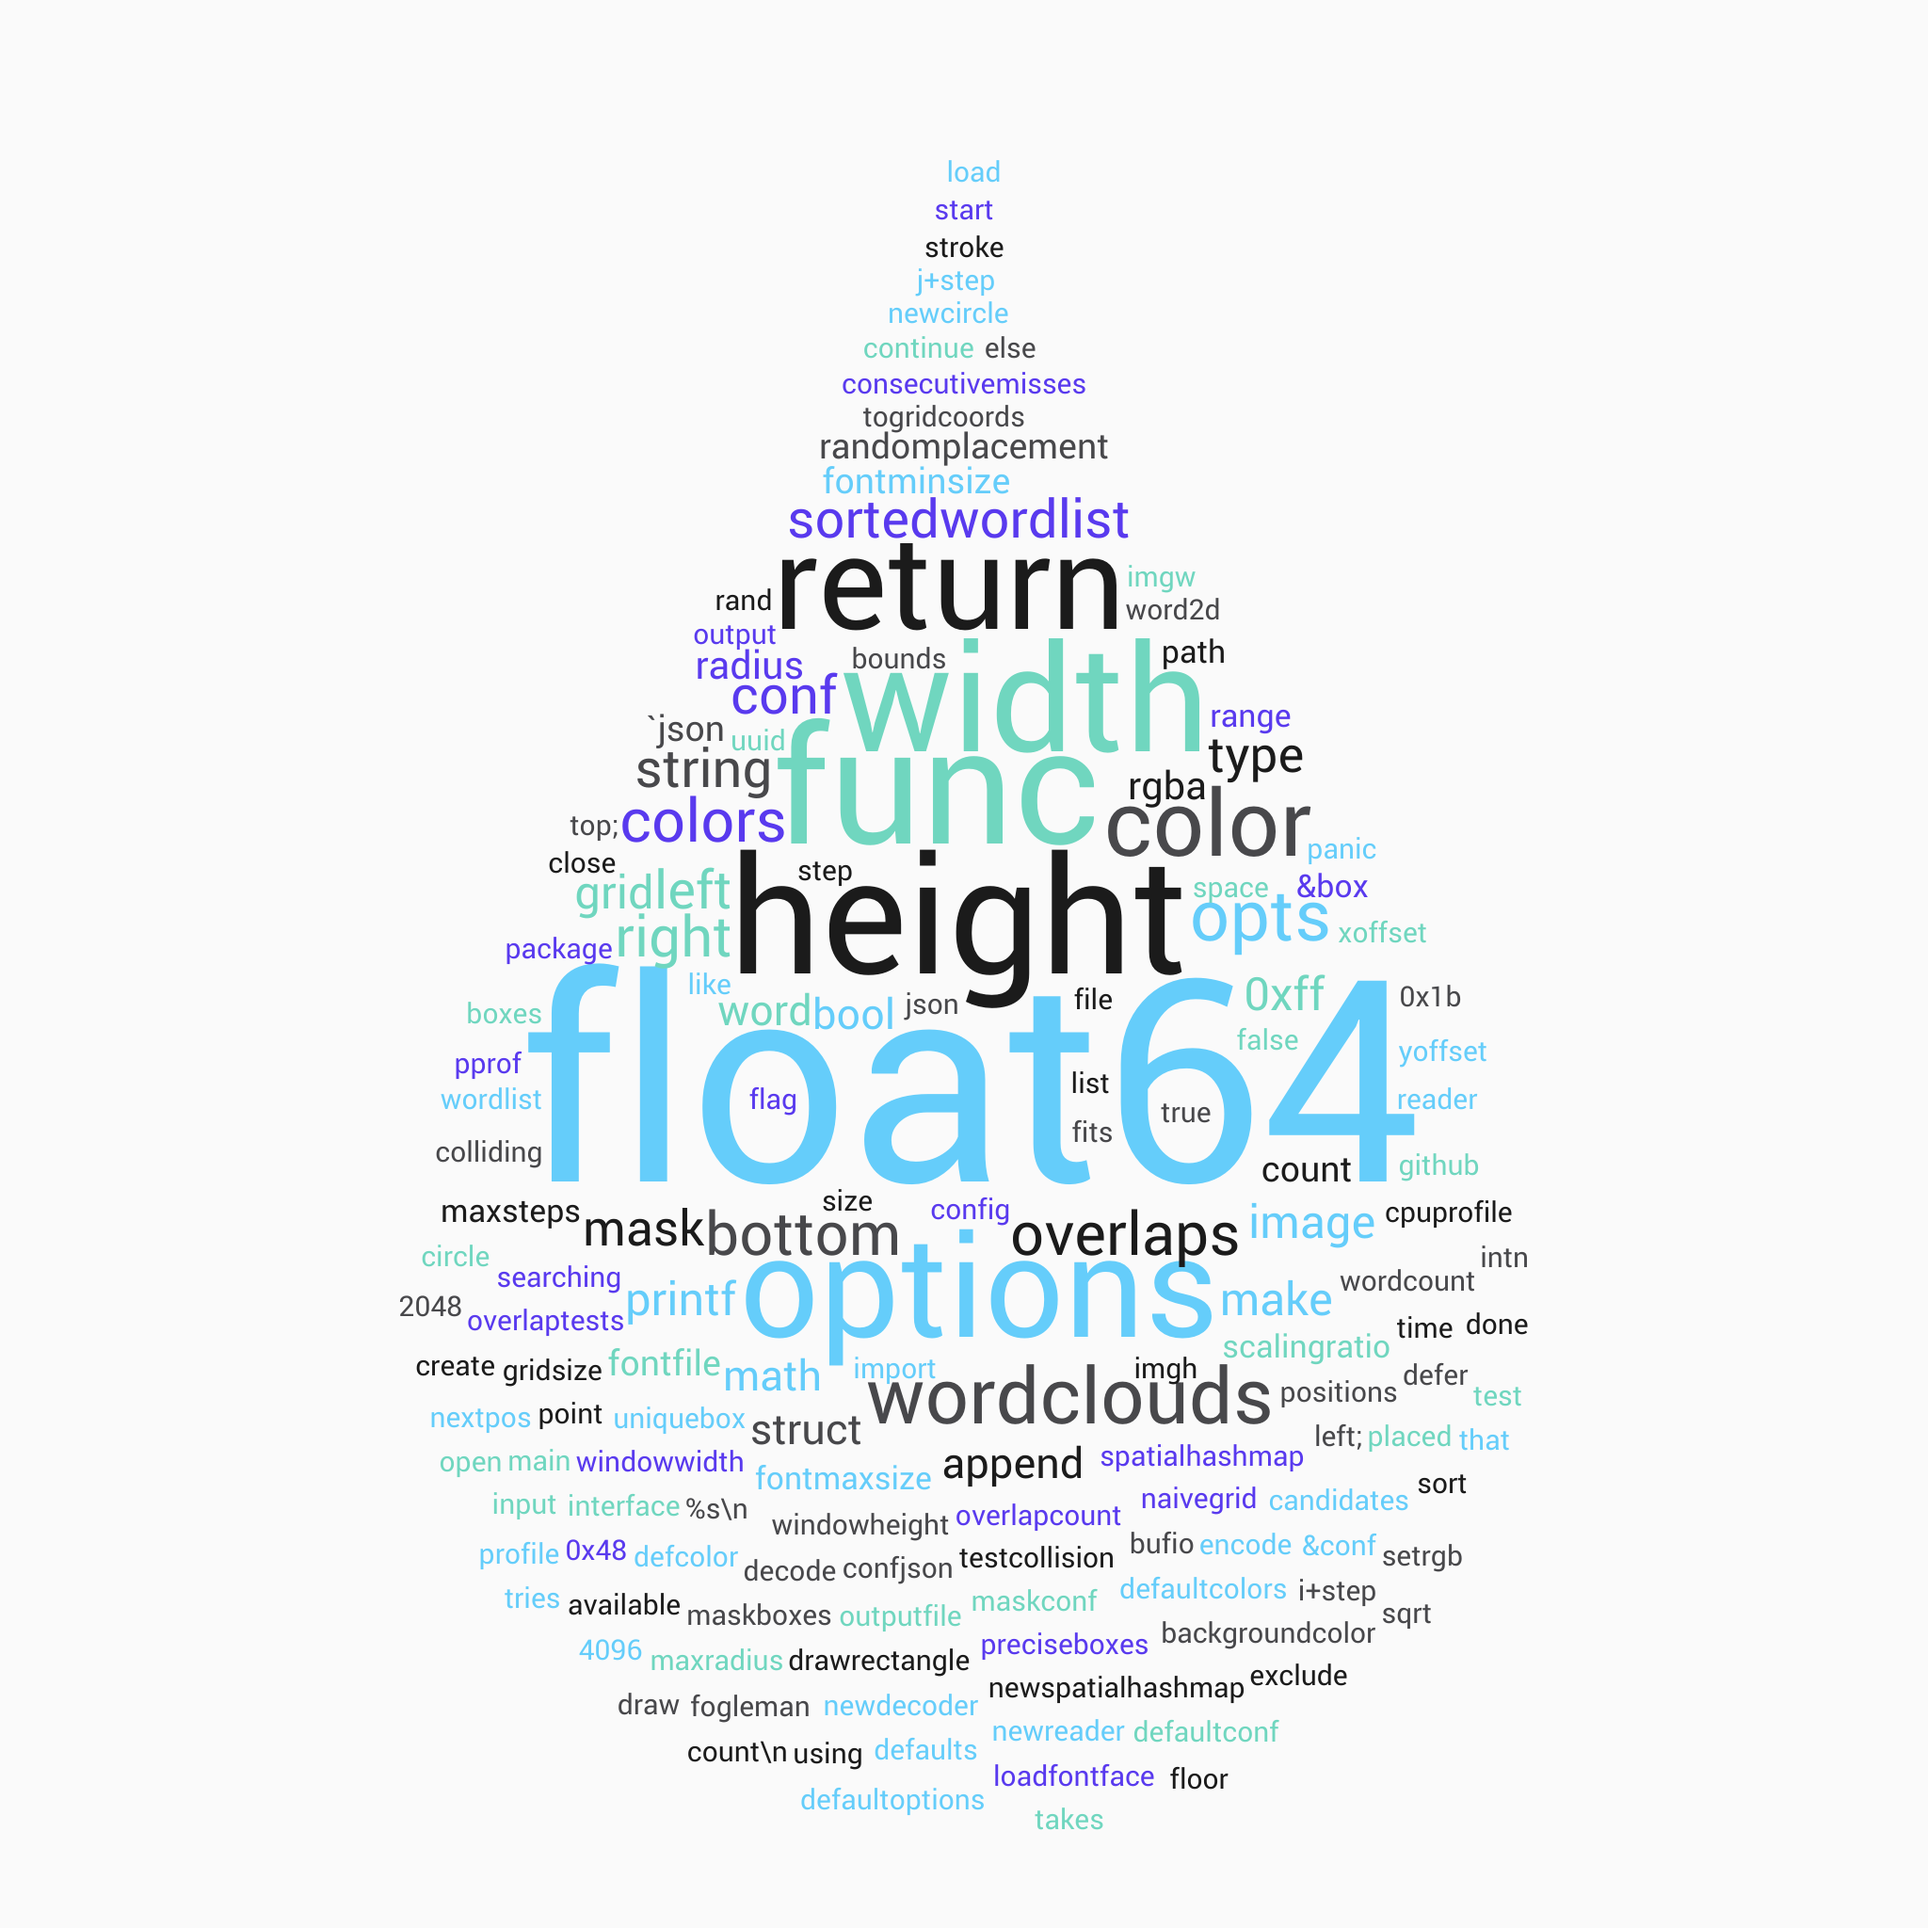
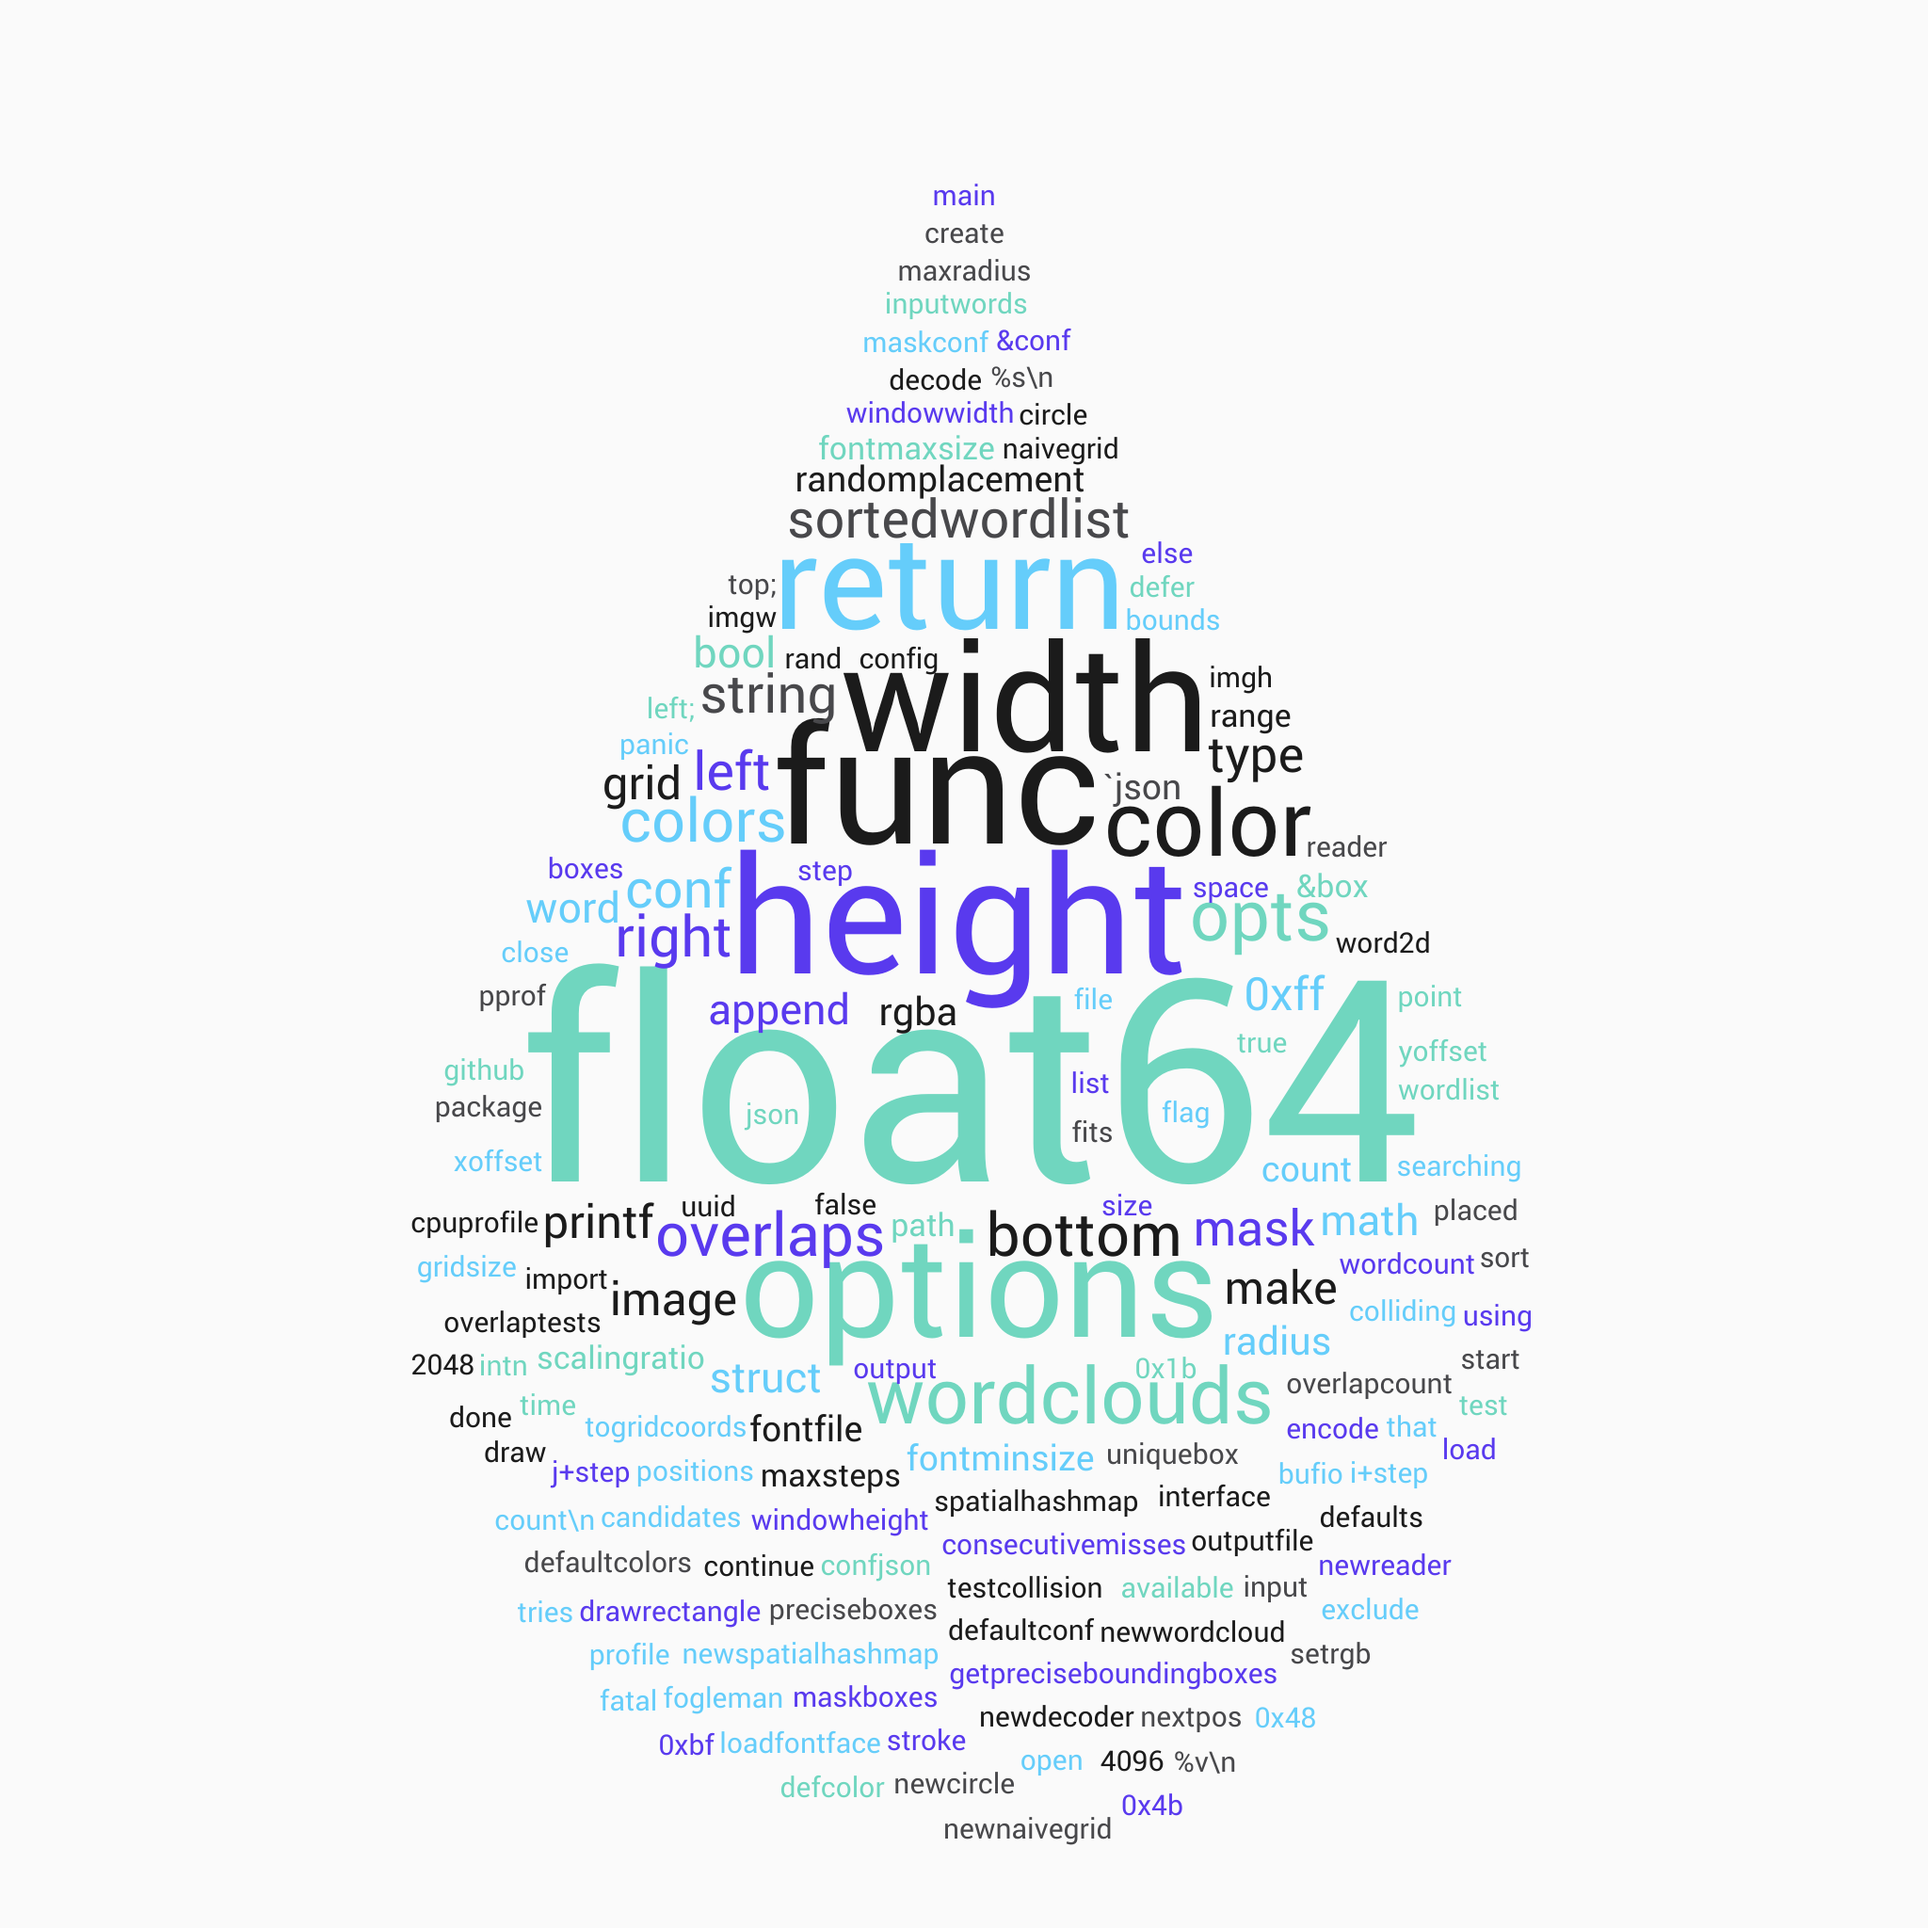
mask: accept both image path and image bytes (expecting embeded file)

Changed region(s): [[0.2188, 0.0938, 0.7812, 0.9688]]

diff --git a/mask.go b/mask.go
@@ -1,19 +1,33 @@
 package wordclouds
 
 import (
+	"bytes"
+	"image"
 	"image/color"
+	_ "image/png"
 	"math"
 
 	"github.com/fogleman/gg"
 )
 
 // Mask creates a slice of box structs from a given mask image to be passed to wordclouds.MaskBoxes.
-func Mask(path string, width int, height int, exclude color.RGBA) []*Box {
+func Mask[T ~string | ~[]byte](maskImage T, width int, height int, exclude color.RGBA) []*Box {
 	res := make([]*Box, 0)
 
-	img, err := gg.LoadPNG(path)
-	if err != nil {
-		panic(err)
+	var img image.Image
+	switch v := any(maskImage).(type) {
+	case string:
+		i, err := gg.LoadPNG(v)
+		if err != nil {
+			panic(err)
+		}
+		img = i
+	case []byte:
+		i, _, err := image.Decode(bytes.NewReader(v))
+		if err != nil {
+			panic(err)
+		}
+		img = i
 	}
 
 	// scale
